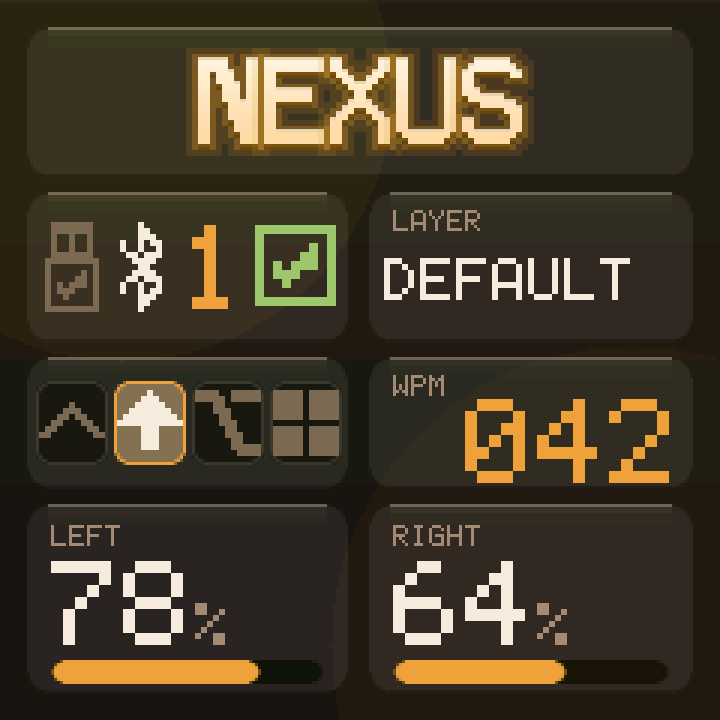
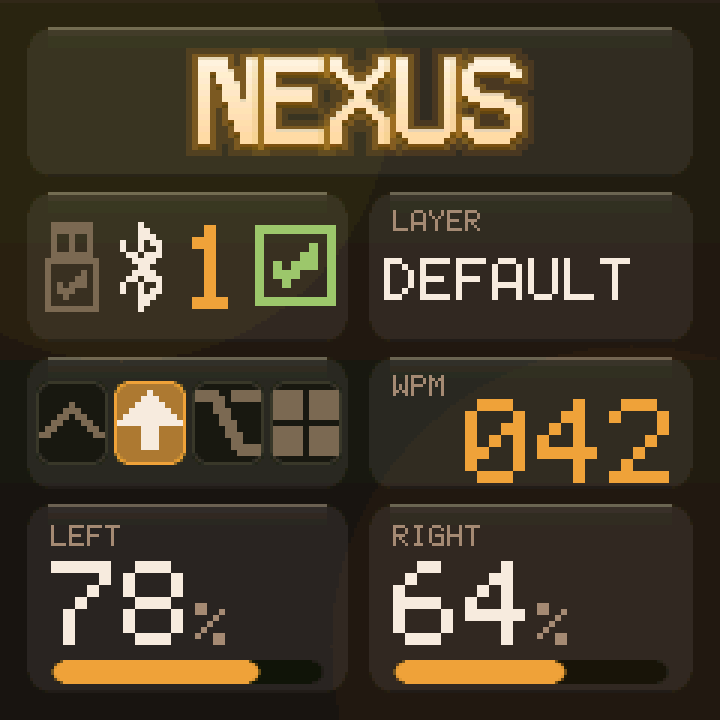
fix(N-08): a held modifier is lit in the theme accent
The held-key fill was accent_alt at 110. Over a dark card that is the pink
diluted down to a desaturated maroon - the only muddy colour in the palette,
and on the one control that changes the most while you type.

It is t->accent now, the colour every other live thing on the dashboard uses,
at 170 rather than 110. That number is not a guess: 170 is as far as it can
go and stay a tint the glyph on top can still be read against. The glyph
keeps at least 89 luma of contrast in every theme, Sunset being the tightest,
and test_theme.py now checks all seven so a palette change cannot quietly
make a held modifier illegible. White on mint was the obvious risk; it never
materialises because the fill is composited over a dark card and never
reaches full mint.

All seven home screens change, which is this ticket's intent. Verified by eye
in NEXUS (the complaint), Daylight (dark glyph on a light fill) and Sunset
(the tightest margin).

accent_alt stays - five games ramp their gradients toward it - but its
comment and themes.md both said it was for modifier pills, which is no longer
true of anything.

Changed region(s): [[0.1528, 0.5194, 0.275, 0.6417]]

diff --git a/tests/ui/test_theme.py b/tests/ui/test_theme.py
@@ -100,6 +100,20 @@ def main():
            '%-9s pane is %+d luma against the top, %+d against the bottom'
            % (t['name'], top, bot))
 
+    print('\nA held modifier is lit in the accent, and still legible')
+    # It was accent_alt at 110 - pink diluted to maroon over a dark card, the
+    # one muddy colour in the palette. It is the accent at 170 now, which is
+    # only safe if the glyph drawn on top of it can still be read.
+    home = read('src', 'ui', 'home.c')
+    ok('on ? t->accent : t->track, on ? 170 : 150' in home,
+       'the fill is t->accent at 170, from the theme table')
+    for t in ts:
+        mid = over(t['bg_top'], t['bg_bot'], 128)   # row 2 is mid-gradient
+        card = over(t['panel'], mid, t['panel_alpha'])
+        fill = over(t['accent'], card, 170)
+        d = abs(lum(t['value']) - lum(fill))
+        ok(d >= 60, '%-9s held glyph is %d luma off its fill' % (t['name'], d))
+
     print('\nThe wordmark halo is a dark-ground device')
     # A halo works because a bright letter plausibly spills light into a dark
     # ground. On a light one there is nothing to spill into and the same

diff --git a/src/ui/home.c b/src/ui/home.c
@@ -335,8 +335,18 @@ static void draw_mods(const struct nexus_status *st)
 		 * unheld modifier is visibly an empty slot rather than
 		 * something that failed to draw.
 		 */
+		/*
+		 * Held: the accent, the colour every other live thing on
+		 * this screen uses. It was accent_alt at 110, which over a
+		 * dark card is the pink diluted down to a muddy maroon - the
+		 * one colour in the palette that looked like a mistake.
+		 *
+		 * 170 is as far as it can go and stay a tint: the glyph on
+		 * top keeps at least 89 luma of contrast in every theme,
+		 * Sunset being the tightest.
+		 */
 		gfx_round_rect(x, y, slot_w, slot_h, 4,
-			       on ? t->accent_alt : t->track, on ? 110 : 150);
+			       on ? t->accent : t->track, on ? 170 : 150);
 		gfx_round_frame(x, y, slot_w, slot_h, 4,
 				on ? t->accent : t->border,
 				on ? GFX_OPAQUE : t->border_alpha);

diff --git a/scripts/render_ui.py b/scripts/render_ui.py
@@ -568,8 +568,8 @@ def home(cv, t, st):
     for i in range(4):
         on = bool(st['mods'] & (1 << i))
         cv.round_rect(x, my, slot_w, slot_h, 4,
-                      t['accent_alt'] if on else t['track'],
-                      110 if on else 150)
+                      t['accent'] if on else t['track'],
+                      170 if on else 150)
         cv.round_frame(x, my, slot_w, slot_h, 4,
                        t['accent'] if on else t['border'],
                        OPAQUE if on else t['border_alpha'])

diff --git a/include/nexus/theme.h b/include/nexus/theme.h
@@ -49,7 +49,7 @@ struct nexus_theme {
 	gfx_color caption;    /* small uppercase labels */
 	gfx_color value;      /* numerals and primary text */
 	gfx_color accent;     /* WPM, meters, selection */
-	gfx_color accent_alt; /* active modifier pills */
+	gfx_color accent_alt; /* second accent: what game gradients ramp to */
 	gfx_color muted;      /* inactive glyphs */
 	gfx_color track;      /* meter trough, game well */
 	gfx_color success;

diff --git a/docs/themes.md b/docs/themes.md
@@ -40,7 +40,7 @@ Colours are `gfx_color` (RGB565). Write them as RGB888 literals through the
 | `caption` | Small uppercase labels. |
 | `value` | Big numerals and primary text. |
 | `accent` | WPM, battery meters, selection outlines. |
-| `accent_alt` | Active modifier pills. |
+| `accent_alt` | The second accent -- what the games ramp toward in brick and alien gradients, and a few sprite details. A held modifier uses `accent`, not this: at the old opacity it read as a muddy maroon. |
 | `track` | Battery trough, Tetris well background. |
 | `muted` | Inactive glyphs and unknown values. |
 | `success` / `warning` / `error` | Battery bands and lock indicators. |
